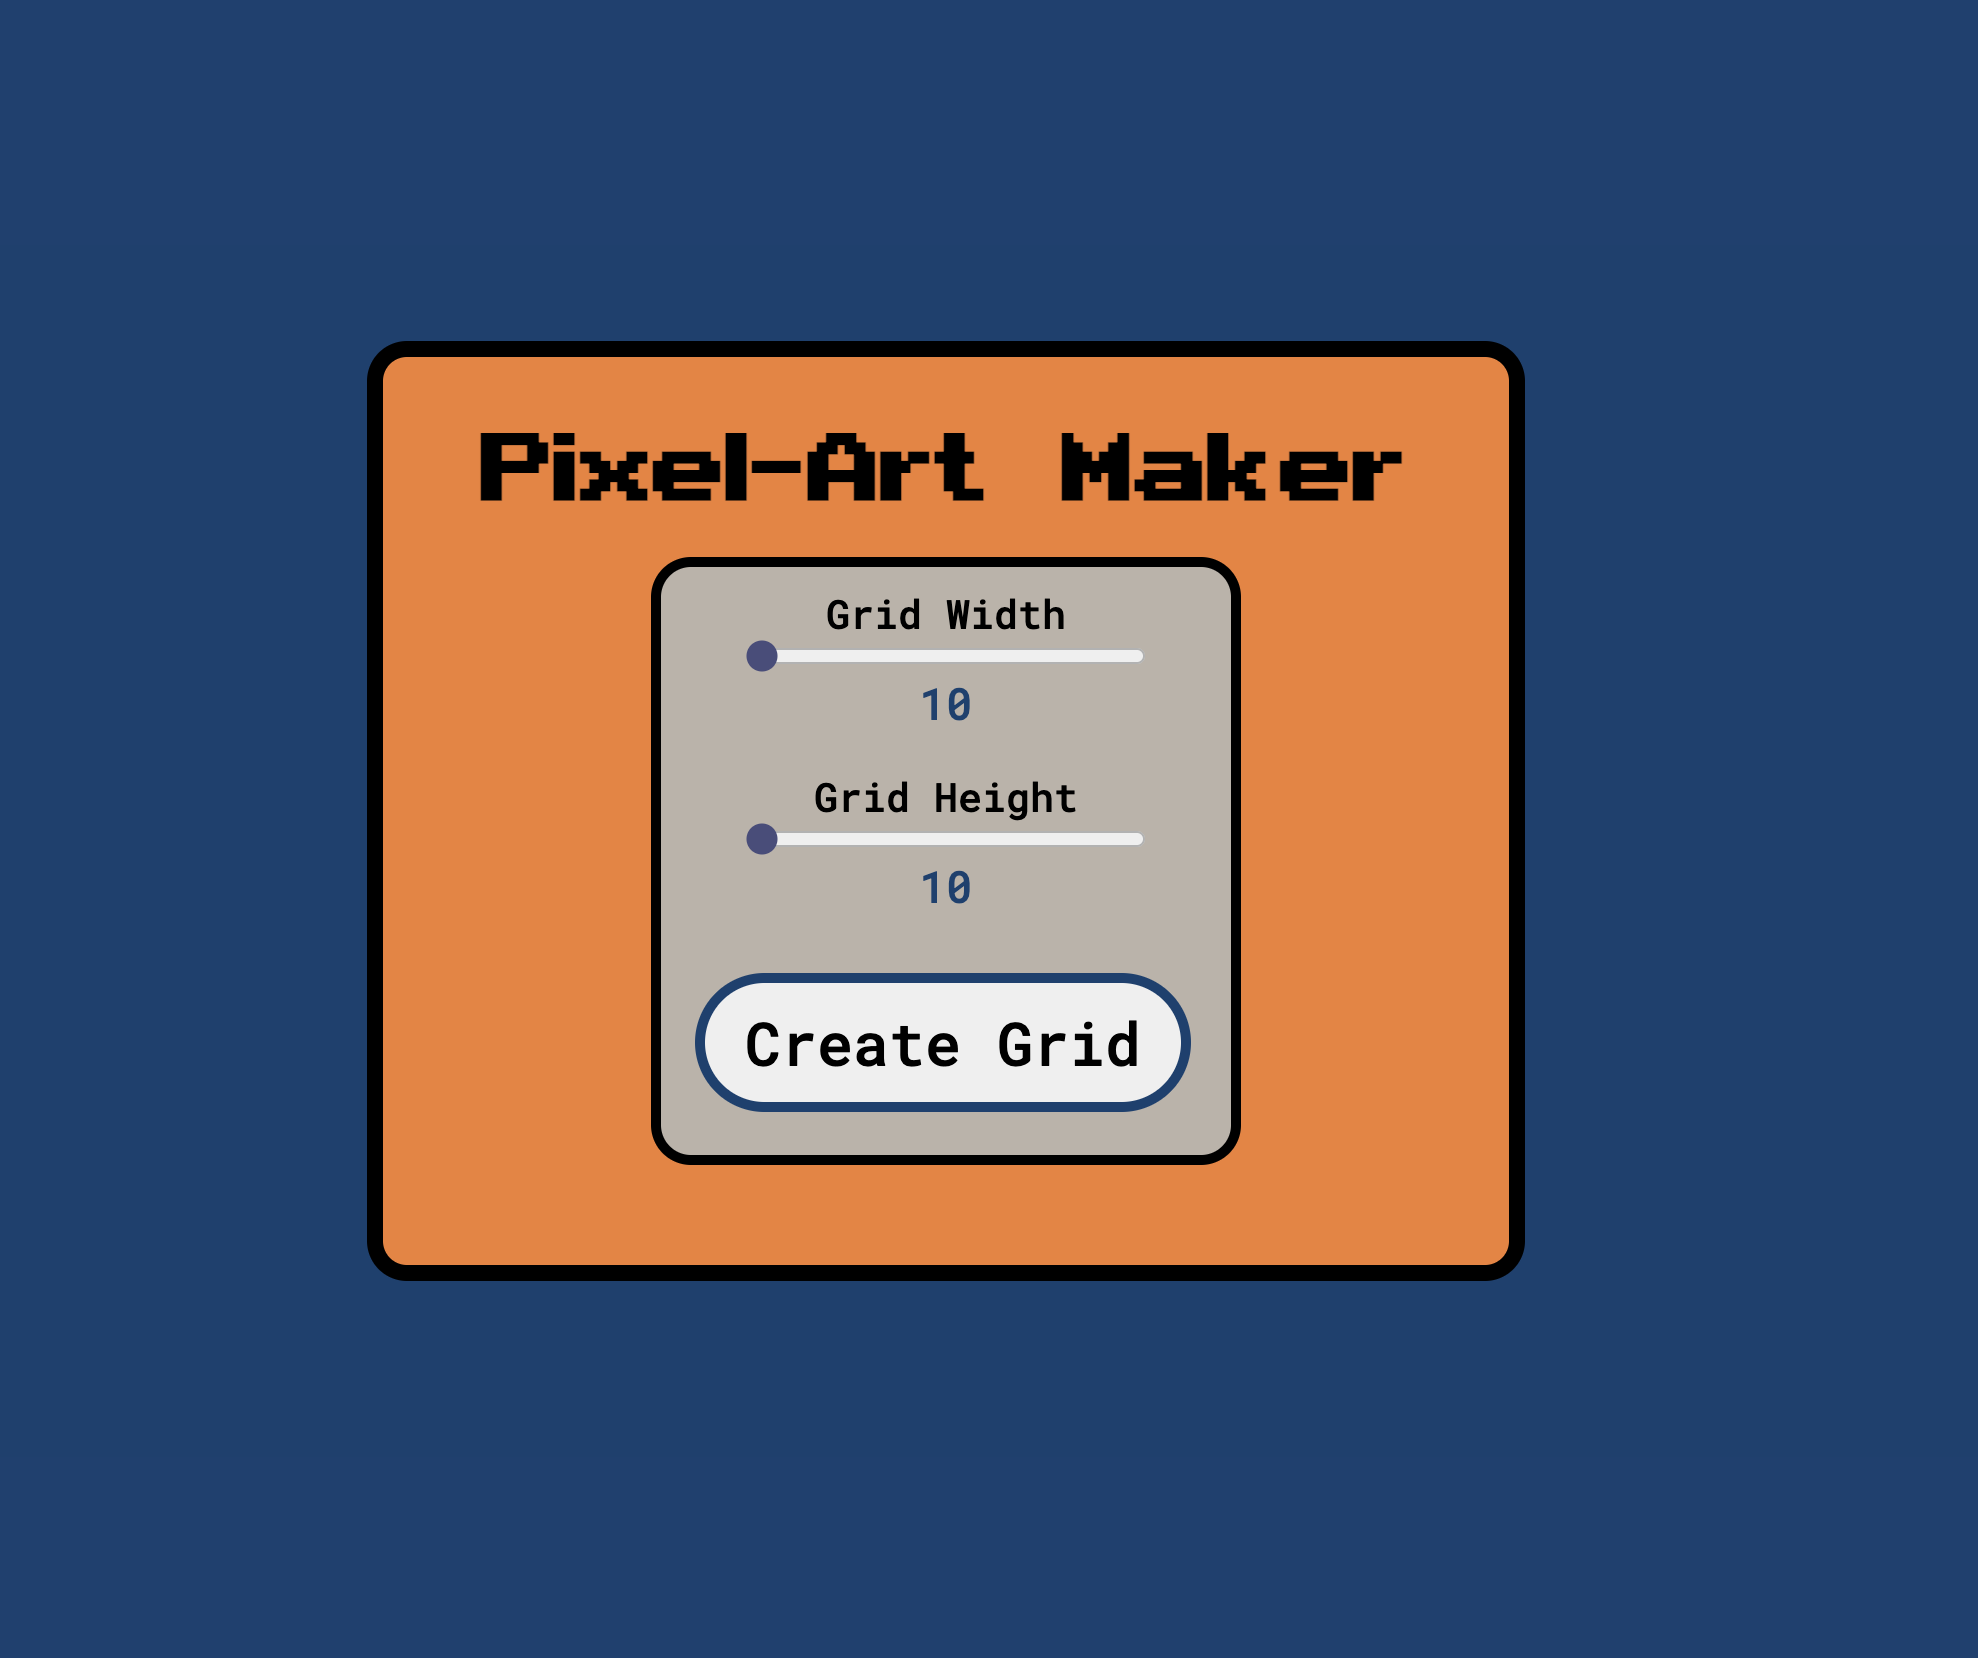
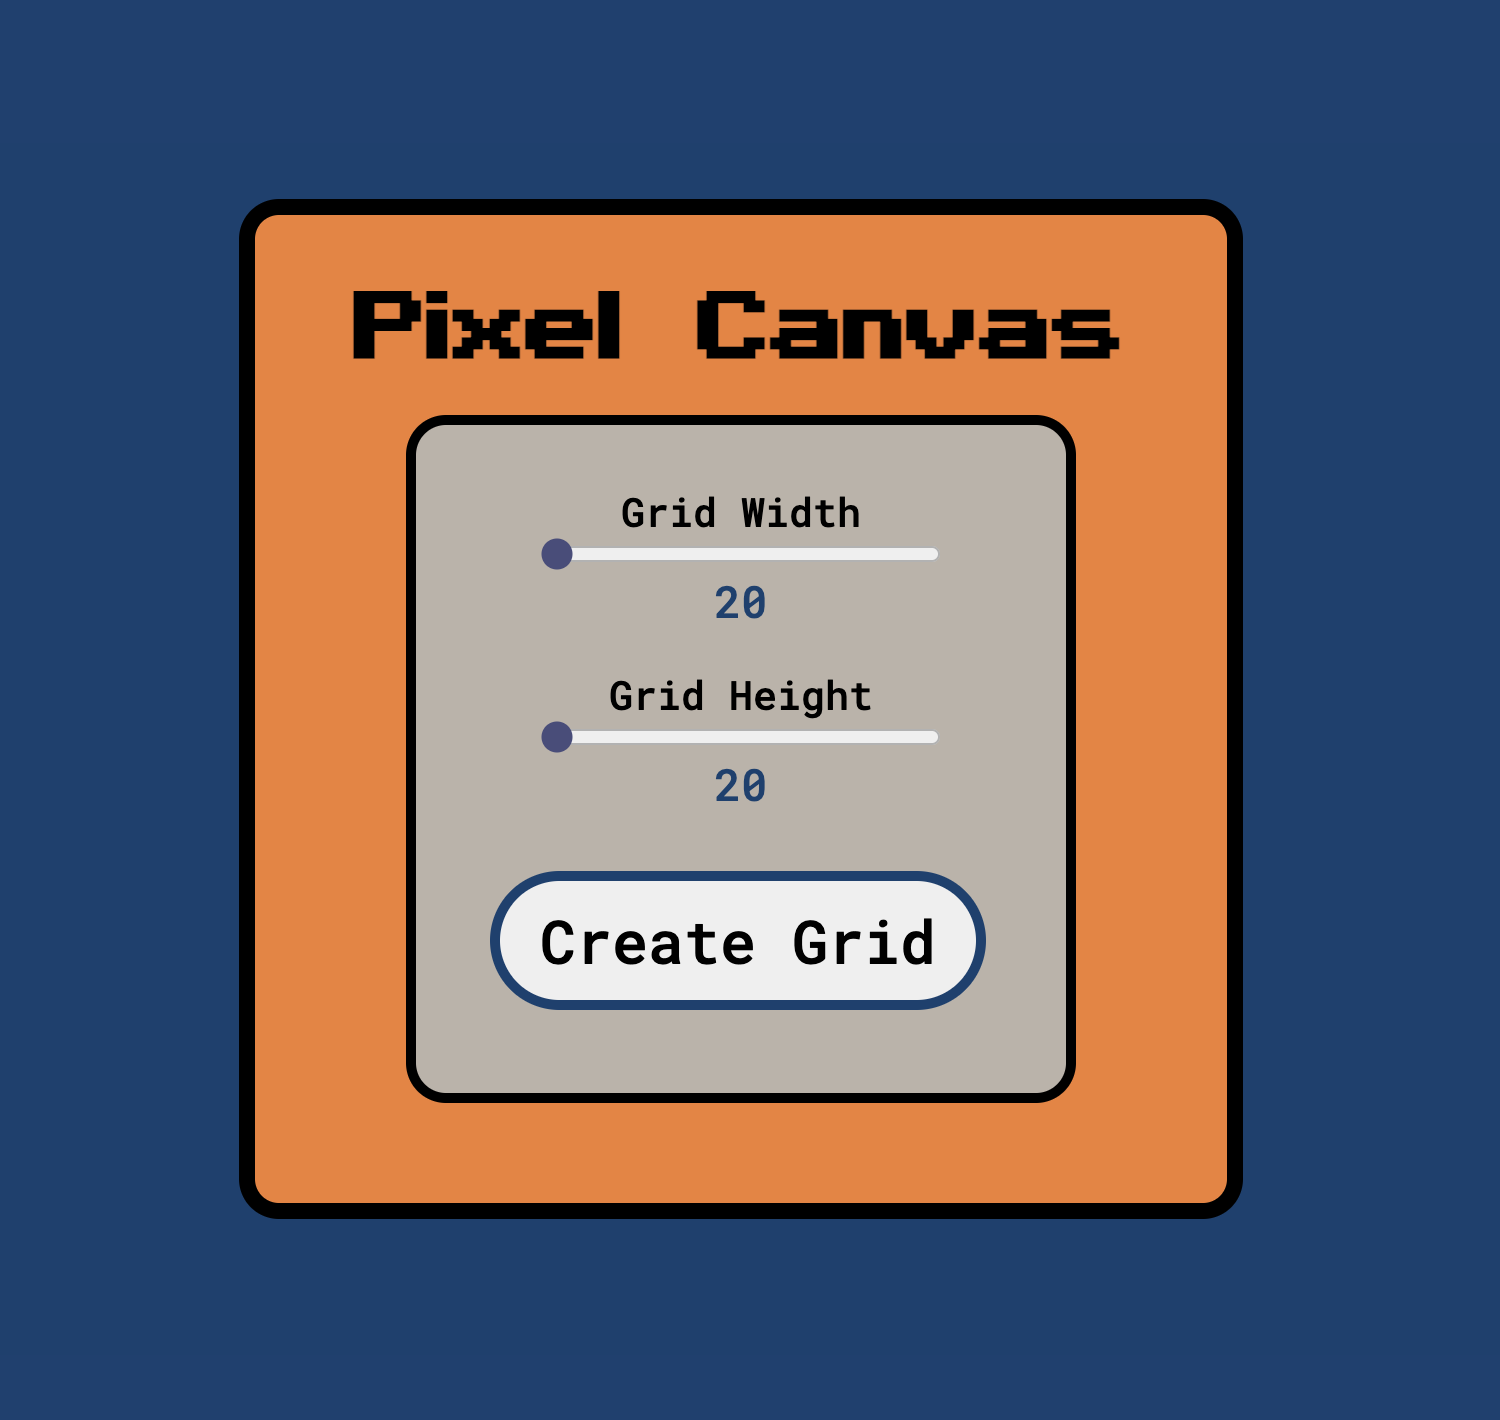
title

diff --git a/index.html b/index.html
@@ -8,7 +8,7 @@
 </head>
 <body>
     <div class="outer-wrapper">
-        <h1 id = "title">Pixel-Art Maker</h1>
+        <h1 id = "title">Pixel Canvas</h1>
             <div class="begin-options"> 
                 <div class="slider">
                     <label for="width-range">Grid Width</label>
